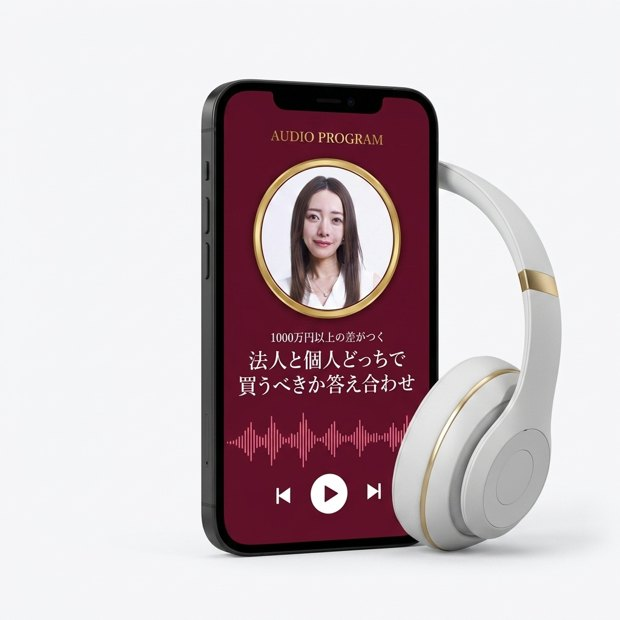
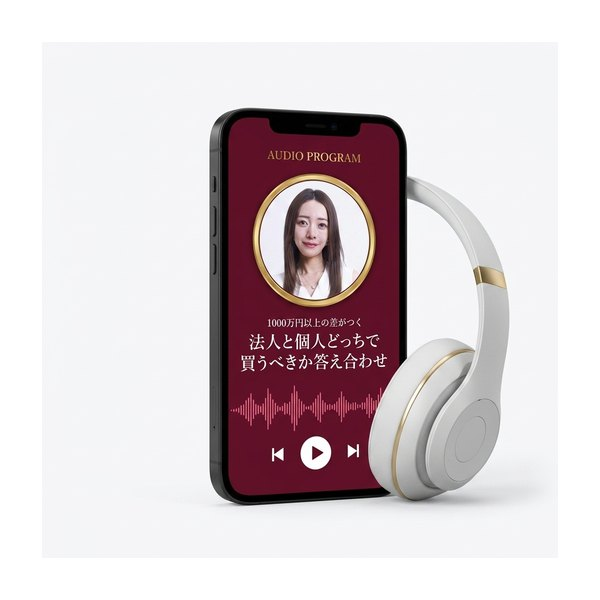
モックアップ修正: 顔見切れ5点を再生成・正方形に統一・説明ラベルと形式凡例を削除

Changed region(s): [[0.3, 0.12, 0.93, 0.9], [0.93, 0.84, 0.96, 0.9]]

diff --git a/index.html b/index.html
@@ -155,11 +155,11 @@ a{text-decoration:none;color:inherit;}
 /* ============================================================
    特典モックアップ（冊子・ビデオ・オーディオの3形式）
 ============================================================ */
-.bk-item,.pr-item{display:flex;flex-direction:column;align-items:center;gap:8px;}
+.bk-item,.pr-item{display:flex;flex-direction:column;align-items:center;}
 .mock-cell{
   display:flex;align-items:center;justify-content:center;width:100%;
 }
-.mk-img{width:100%;max-width:190px;height:auto;display:block;}
+.mk-img{width:100%;max-width:200px;height:auto;display:block;}
 .video-mock2{margin:0 auto 18px;width:min(94%,460px);}
 .video-mock2 img{width:100%;}
 /* ---- 提供形式チップ ---- */
@@ -379,7 +379,7 @@ a{text-decoration:none;color:inherit;}
 }
 .pr-num .pr-p{font-family:var(--script);font-size:15px;color:#7E5A12;line-height:1;margin-top:-4px;}
 .pr-num .pr-n{font-family:var(--serif);font-weight:900;font-size:24px;color:#6B4A0C;line-height:1;}
-.pr-item .mock-cell{margin-top:30px;}
+.pr-item .mk-img{margin-top:26px;}
 .pr-cap{font-size:11px;font-weight:700;color:var(--main);line-height:1.5;text-align:center;}
 .pr-ttl{font-size:12px;font-weight:900;color:var(--ink);line-height:1.5;text-align:center;margin-top:-5px;}
 
@@ -794,61 +794,18 @@ footer .f-copy{margin-top:14px;font-size:12px;opacity:.95;}
       <svg class="laurel r" viewBox="0 0 40 80" fill="none"><path d="M30 6C16 18 10 34 12 52c2 12 8 20 16 24" stroke="#C49A3C" stroke-width="3" stroke-linecap="round"/><g fill="#C49A3C"><ellipse cx="26" cy="12" rx="3" ry="7" transform="rotate(40 26 12)"/><ellipse cx="18" cy="24" rx="3" ry="7" transform="rotate(25 18 24)"/><ellipse cx="13" cy="38" rx="3" ry="7" transform="rotate(10 13 38)"/><ellipse cx="13" cy="52" rx="3" ry="7" transform="rotate(-8 13 52)"/><ellipse cx="18" cy="64" rx="3" ry="7" transform="rotate(-28 18 64)"/></g></svg>
     </p>
     <p class="get-bar">登録してすぐに10大特典GET</p>
-    <p class="fmt-legend">特典は「冊子」「ビデオ」「オーディオ」の3つの形式でお届けします
-      <span class="chips"><span class="fmt fmt-book">冊子形式</span><span class="fmt fmt-video">ビデオ形式</span><span class="fmt fmt-audio">オーディオ形式</span></span>
-    </p>
 
     <div class="bk-grid">
-      <div class="bk-item">
-        <div class="mock-cell"><img class="mk-img" src="images/mk/mk01.jpg" alt="年商1億を資産10億へ変える7ステップ" loading="lazy"></div>
-        <span class="fmt fmt-video">ビデオ形式</span>
-        <p class="bk-label">一生お金に困らない！<br><b>年商1億を資産10億へ変える<br>7ステップ</b></p>
-      </div>
-      <div class="bk-item">
-        <div class="mock-cell"><img class="mk-img" src="images/mk/mk02.jpg" alt="事業利益を資産に変える3つの方法" loading="lazy"></div>
-        <span class="fmt fmt-book">冊子形式</span>
-        <p class="bk-label">今日からできる！<br><b>事業利益を資産に変える<br>3つの方法</b></p>
-      </div>
-      <div class="bk-item">
-        <div class="mock-cell"><img class="mk-img" src="images/mk/mk03.jpg" alt="女性起業家のための最強節税術TOP10" loading="lazy"></div>
-        <span class="fmt fmt-book">冊子形式</span>
-        <p class="bk-label">知らないと大損！<br><b>女性起業家のための<br>最強節税術TOP10</b></p>
-      </div>
-      <div class="bk-item">
-        <div class="mock-cell"><img class="mk-img" src="images/mk/mk04.jpg" alt="法人設計の教科書" loading="lazy"></div>
-        <span class="fmt fmt-book">冊子形式</span>
-        <p class="bk-label">年間1000万円以上の差がつく！<br><b>法人設計の教科書</b></p>
-      </div>
-      <div class="bk-item">
-        <div class="mock-cell"><img class="mk-img" src="images/mk/mk05.jpg" alt="法人活用5ステップ" loading="lazy"></div>
-        <span class="fmt fmt-video">ビデオ形式</span>
-        <p class="bk-label">お金が残る会社になる！<br><b>法人活用5ステップ</b></p>
-      </div>
-      <div class="bk-item">
-        <div class="mock-cell"><img class="mk-img" src="images/mk/mk06.jpg" alt="資産管理会社設立完全マニュアル" loading="lazy"></div>
-        <span class="fmt fmt-book">冊子形式</span>
-        <p class="bk-label">知らないと損！<br><b>資産管理会社設立<br>完全マニュアル</b></p>
-      </div>
-      <div class="bk-item">
-        <div class="mock-cell"><img class="mk-img" src="images/mk/mk07.jpg" alt="お金が増える会社設計の秘密" loading="lazy"></div>
-        <span class="fmt fmt-audio">オーディオ形式</span>
-        <p class="bk-label">資産家だけが知っている<br><b>お金が増える会社設計の秘密</b></p>
-      </div>
-      <div class="bk-item">
-        <div class="mock-cell"><img class="mk-img" src="images/mk/mk08.jpg" alt="お金が残らない本当の理由" loading="lazy"></div>
-        <span class="fmt fmt-audio">オーディオ形式</span>
-        <p class="bk-label">利益が出ても<br><b>お金が残らない本当の理由</b></p>
-      </div>
-      <div class="bk-item">
-        <div class="mock-cell"><img class="mk-img" src="images/mk/mk09.jpg" alt="最初にやるべきお金の守り方" loading="lazy"></div>
-        <span class="fmt fmt-book">冊子形式</span>
-        <p class="bk-label">年商3000万円を超えたら<br><b>最初にやるべきお金の守り方</b></p>
-      </div>
-      <div class="bk-item">
-        <div class="mock-cell"><img class="mk-img" src="images/mk/mk10.jpg" alt="女性経営者の資産形成ロードマップ" loading="lazy"></div>
-        <span class="fmt fmt-video">ビデオ形式</span>
-        <p class="bk-label">5年後に後悔しない！<br><b>女性経営者の<br>資産形成ロードマップ</b></p>
-      </div>
+      <div class="bk-item"><img class="mk-img" src="images/mk/mk01.jpg" alt="年商1億を資産10億へ変える7ステップ" loading="lazy"></div>
+      <div class="bk-item"><img class="mk-img" src="images/mk/mk02.jpg" alt="事業利益を資産に変える3つの方法" loading="lazy"></div>
+      <div class="bk-item"><img class="mk-img" src="images/mk/mk03.jpg" alt="女性起業家のための最強節税術TOP10" loading="lazy"></div>
+      <div class="bk-item"><img class="mk-img" src="images/mk/mk04.jpg" alt="法人設計の教科書" loading="lazy"></div>
+      <div class="bk-item"><img class="mk-img" src="images/mk/mk05.jpg" alt="法人活用5ステップ" loading="lazy"></div>
+      <div class="bk-item"><img class="mk-img" src="images/mk/mk06.jpg" alt="資産管理会社設立完全マニュアル" loading="lazy"></div>
+      <div class="bk-item"><img class="mk-img" src="images/mk/mk07.jpg" alt="お金が増える会社設計の秘密" loading="lazy"></div>
+      <div class="bk-item"><img class="mk-img" src="images/mk/mk08.jpg" alt="利益が出てもお金が残らない本当の理由" loading="lazy"></div>
+      <div class="bk-item"><img class="mk-img" src="images/mk/mk09.jpg" alt="最初にやるべきお金の守り方" loading="lazy"></div>
+      <div class="bk-item"><img class="mk-img" src="images/mk/mk10.jpg" alt="女性経営者の資産形成ロードマップ" loading="lazy"></div>
     </div>
 
     <!-- さらに20大特典 -->
@@ -860,104 +817,64 @@ footer .f-copy{margin-top:14px;font-size:12px;opacity:.95;}
 
     <div class="present-grid">
       <div class="pr-item"><span class="pr-num"><span class="pr-p">Present</span><span class="pr-n">01</span></span>
-        <div class="mock-cell"><img class="mk-img" src="images/mk/mk11.jpg" alt="不動産投資はじめの一歩ガイド" loading="lazy"></div>
-        <span class="fmt fmt-book">冊子形式</span>
-        <p class="pr-cap">月50万円の不労所得が手に入る！</p><p class="pr-ttl">不動産投資はじめの一歩ガイド</p>
+        <img class="mk-img" src="images/mk/mk11.jpg" alt="不動産投資はじめの一歩ガイド" loading="lazy">
       </div>
       <div class="pr-item"><span class="pr-num"><span class="pr-p">Present</span><span class="pr-n">02</span></span>
-        <div class="mock-cell"><img class="mk-img" src="images/mk/mk12.jpg" alt="買っていい収益物件7つの見分け方" loading="lazy"></div>
-        <span class="fmt fmt-video">ビデオ形式</span>
-        <p class="pr-cap">初めてでも失敗しない！</p><p class="pr-ttl">買っていい収益物件7つの見分け方</p>
+        <img class="mk-img" src="images/mk/mk12.jpg" alt="買っていい収益物件7つの見分け方" loading="lazy">
       </div>
       <div class="pr-item"><span class="pr-num"><span class="pr-p">Present</span><span class="pr-n">03</span></span>
-        <div class="mock-cell"><img class="mk-img" src="images/mk/mk13.jpg" alt="後悔する物件ワースト10" loading="lazy"></div>
-        <span class="fmt fmt-book">冊子形式</span>
-        <p class="pr-cap">これを買うと地獄！</p><p class="pr-ttl">後悔する物件ワースト10</p>
+        <img class="mk-img" src="images/mk/mk13.jpg" alt="後悔する物件ワースト10" loading="lazy">
       </div>
       <div class="pr-item"><span class="pr-num"><span class="pr-p">Present</span><span class="pr-n">04</span></span>
-        <div class="mock-cell"><img class="mk-img" src="images/mk/mk14.jpg" alt="物件選びチェックリスト50" loading="lazy"></div>
-        <span class="fmt fmt-book">冊子形式</span>
-        <p class="pr-cap">失敗確率がガクッと下がる！</p><p class="pr-ttl">物件選びチェックリスト50</p>
+        <img class="mk-img" src="images/mk/mk14.jpg" alt="物件選びチェックリスト50" loading="lazy">
       </div>
       <div class="pr-item"><span class="pr-num"><span class="pr-p">Present</span><span class="pr-n">05</span></span>
-        <div class="mock-cell"><img class="mk-img" src="images/mk/mk15.jpg" alt="お宝物件の見抜き方5選" loading="lazy"></div>
-        <span class="fmt fmt-video">ビデオ形式</span>
-        <p class="pr-cap">プロだけが見ている！</p><p class="pr-ttl">お宝物件の見抜き方5選</p>
+        <img class="mk-img" src="images/mk/mk15.jpg" alt="お宝物件の見抜き方5選" loading="lazy">
       </div>
       <div class="pr-item"><span class="pr-num"><span class="pr-p">Present</span><span class="pr-n">06</span></span>
-        <div class="mock-cell"><img class="mk-img" src="images/mk/mk16.jpg" alt="資産1億円を作る完全ロードマップ" loading="lazy"></div>
-        <span class="fmt fmt-book">冊子形式</span>
-        <p class="pr-cap">自己資金1000万円から</p><p class="pr-ttl">資産1億円を作る完全ロードマップ</p>
+        <img class="mk-img" src="images/mk/mk16.jpg" alt="資産1億円を作る完全ロードマップ" loading="lazy">
       </div>
       <div class="pr-item"><span class="pr-num"><span class="pr-p">Present</span><span class="pr-n">07</span></span>
-        <div class="mock-cell"><img class="mk-img" src="images/mk/mk17.jpg" alt="法人と個人どっちで買うべきか答え合わせ" loading="lazy"></div>
-        <span class="fmt fmt-audio">オーディオ形式</span>
-        <p class="pr-cap">1000万円以上の差がつく！</p><p class="pr-ttl">法人と個人どっちで買うべきか答え合わせ</p>
+        <img class="mk-img" src="images/mk/mk17.jpg" alt="法人と個人どっちで買うべきか答え合わせ" loading="lazy">
       </div>
       <div class="pr-item"><span class="pr-num"><span class="pr-p">Present</span><span class="pr-n">08</span></span>
-        <div class="mock-cell"><img class="mk-img" src="images/mk/mk18.jpg" alt="収益物件の選び方" loading="lazy"></div>
-        <span class="fmt fmt-video">ビデオ形式</span>
-        <p class="pr-cap">月100万円のキャッシュが入る！</p><p class="pr-ttl">収益物件の選び方</p>
+        <img class="mk-img" src="images/mk/mk18.jpg" alt="収益物件の選び方" loading="lazy">
       </div>
       <div class="pr-item"><span class="pr-num"><span class="pr-p">Present</span><span class="pr-n">09</span></span>
-        <div class="mock-cell"><img class="mk-img" src="images/mk/mk19.jpg" alt="決算書の作り方" loading="lazy"></div>
-        <span class="fmt fmt-book">冊子形式</span>
-        <p class="pr-cap">銀行が思わず貸したくなる</p><p class="pr-ttl">決算書の作り方</p>
+        <img class="mk-img" src="images/mk/mk19.jpg" alt="決算書の作り方" loading="lazy">
       </div>
       <div class="pr-item"><span class="pr-num"><span class="pr-p">Present</span><span class="pr-n">10</span></span>
-        <div class="mock-cell"><img class="mk-img" src="images/mk/mk20.jpg" alt="融資戦略マップ" loading="lazy"></div>
-        <span class="fmt fmt-book">冊子形式</span>
-        <p class="pr-cap">10年後の資産額がガラッと変わる</p><p class="pr-ttl">融資戦略マップ</p>
+        <img class="mk-img" src="images/mk/mk20.jpg" alt="融資戦略マップ" loading="lazy">
       </div>
       <div class="pr-item"><span class="pr-num"><span class="pr-p">Present</span><span class="pr-n">11</span></span>
-        <div class="mock-cell"><img class="mk-img" src="images/mk/mk21.jpg" alt="銀行とのつき合い方" loading="lazy"></div>
-        <span class="fmt fmt-audio">オーディオ形式</span>
-        <p class="pr-cap">融資が驚くほど通りやすくなる！</p><p class="pr-ttl">銀行とのつき合い方</p>
+        <img class="mk-img" src="images/mk/mk21.jpg" alt="銀行とのつき合い方" loading="lazy">
       </div>
       <div class="pr-item"><span class="pr-num"><span class="pr-p">Present</span><span class="pr-n">12</span></span>
-        <div class="mock-cell"><img class="mk-img" src="images/mk/mk22.jpg" alt="女性起業家のための不動産融資の裏側" loading="lazy"></div>
-        <span class="fmt fmt-audio">オーディオ形式</span>
-        <p class="pr-cap">誰も教えてくれない！</p><p class="pr-ttl">女性起業家のための不動産融資の裏側</p>
+        <img class="mk-img" src="images/mk/mk22.jpg" alt="女性起業家のための不動産融資の裏側" loading="lazy">
       </div>
       <div class="pr-item"><span class="pr-num"><span class="pr-p">Present</span><span class="pr-n">13</span></span>
-        <div class="mock-cell"><img class="mk-img" src="images/mk/mk23.jpg" alt="キャッシュフロー経営の始め方" loading="lazy"></div>
-        <span class="fmt fmt-video">ビデオ形式</span>
-        <p class="pr-cap">働かなくてもお金が増える！</p><p class="pr-ttl">キャッシュフロー経営の始め方</p>
+        <img class="mk-img" src="images/mk/mk23.jpg" alt="キャッシュフロー経営の始め方" loading="lazy">
       </div>
       <div class="pr-item"><span class="pr-num"><span class="pr-p">Present</span><span class="pr-n">14</span></span>
-        <div class="mock-cell"><img class="mk-img" src="images/mk/mk24.jpg" alt="資産が拡大する5ステップ" loading="lazy"></div>
-        <span class="fmt fmt-book">冊子形式</span>
-        <p class="pr-cap">お金が増える人だけがやっている！</p><p class="pr-ttl">資産が拡大する5ステップ</p>
+        <img class="mk-img" src="images/mk/mk24.jpg" alt="資産が拡大する5ステップ" loading="lazy">
       </div>
       <div class="pr-item"><span class="pr-num"><span class="pr-p">Present</span><span class="pr-n">15</span></span>
-        <div class="mock-cell"><img class="mk-img" src="images/mk/mk25.jpg" alt="一生お金に困らない資産家思考7つの習慣" loading="lazy"></div>
-        <span class="fmt fmt-audio">オーディオ形式</span>
-        <p class="pr-cap">売上依存から卒業！</p><p class="pr-ttl">一生お金に困らない資産家思考7つの習慣</p>
+        <img class="mk-img" src="images/mk/mk25.jpg" alt="一生お金に困らない資産家思考7つの習慣" loading="lazy">
       </div>
       <div class="pr-item"><span class="pr-num"><span class="pr-p">Present</span><span class="pr-n">16</span></span>
-        <div class="mock-cell"><img class="mk-img" src="images/mk/mk26.jpg" alt="お金が増え続ける使い方7ルール" loading="lazy"></div>
-        <span class="fmt fmt-book">冊子形式</span>
-        <p class="pr-cap">資産10億超を作った！</p><p class="pr-ttl">お金が増え続ける使い方7ルール</p>
+        <img class="mk-img" src="images/mk/mk26.jpg" alt="お金が増え続ける使い方7ルール" loading="lazy">
       </div>
       <div class="pr-item"><span class="pr-num"><span class="pr-p">Present</span><span class="pr-n">17</span></span>
-        <div class="mock-cell"><img class="mk-img" src="images/mk/mk27.jpg" alt="女性起業家のお金の守り方" loading="lazy"></div>
-        <span class="fmt fmt-video">ビデオ形式</span>
-        <p class="pr-cap">不況がきても揺るがない！</p><p class="pr-ttl">女性起業家のお金の守り方</p>
+        <img class="mk-img" src="images/mk/mk27.jpg" alt="女性起業家のお金の守り方" loading="lazy">
       </div>
       <div class="pr-item"><span class="pr-num"><span class="pr-p">Present</span><span class="pr-n">18</span></span>
-        <div class="mock-cell"><img class="mk-img" src="images/mk/mk28.jpg" alt="迷わず進める資産形成マップ" loading="lazy"></div>
-        <span class="fmt fmt-book">冊子形式</span>
-        <p class="pr-cap">年商1億から資産10億へ！</p><p class="pr-ttl">迷わず進める資産形成マップ</p>
+        <img class="mk-img" src="images/mk/mk28.jpg" alt="迷わず進める資産形成マップ" loading="lazy">
       </div>
       <div class="pr-item"><span class="pr-num"><span class="pr-p">Present</span><span class="pr-n">19</span></span>
-        <div class="mock-cell"><img class="mk-img" src="images/mk/mk29.jpg" alt="収益物件ポートフォリオの作り方" loading="lazy"></div>
-        <span class="fmt fmt-video">ビデオ形式</span>
-        <p class="pr-cap">ほったらかしで利益が増え続ける！</p><p class="pr-ttl">収益物件ポートフォリオの作り方</p>
+        <img class="mk-img" src="images/mk/mk29.jpg" alt="収益物件ポートフォリオの作り方" loading="lazy">
       </div>
       <div class="pr-item"><span class="pr-num"><span class="pr-p">Present</span><span class="pr-n">20</span></span>
-        <div class="mock-cell"><img class="mk-img" src="images/mk/mk30.jpg" alt="働かなくてもお金が増える仕組みの作り方" loading="lazy"></div>
-        <span class="fmt fmt-book">冊子形式</span>
-        <p class="pr-cap">売上を追う人生から卒業！</p><p class="pr-ttl">働かなくてもお金が増える仕組みの作り方</p>
+        <img class="mk-img" src="images/mk/mk30.jpg" alt="働かなくてもお金が増える仕組みの作り方" loading="lazy">
       </div>
     </div>
 
